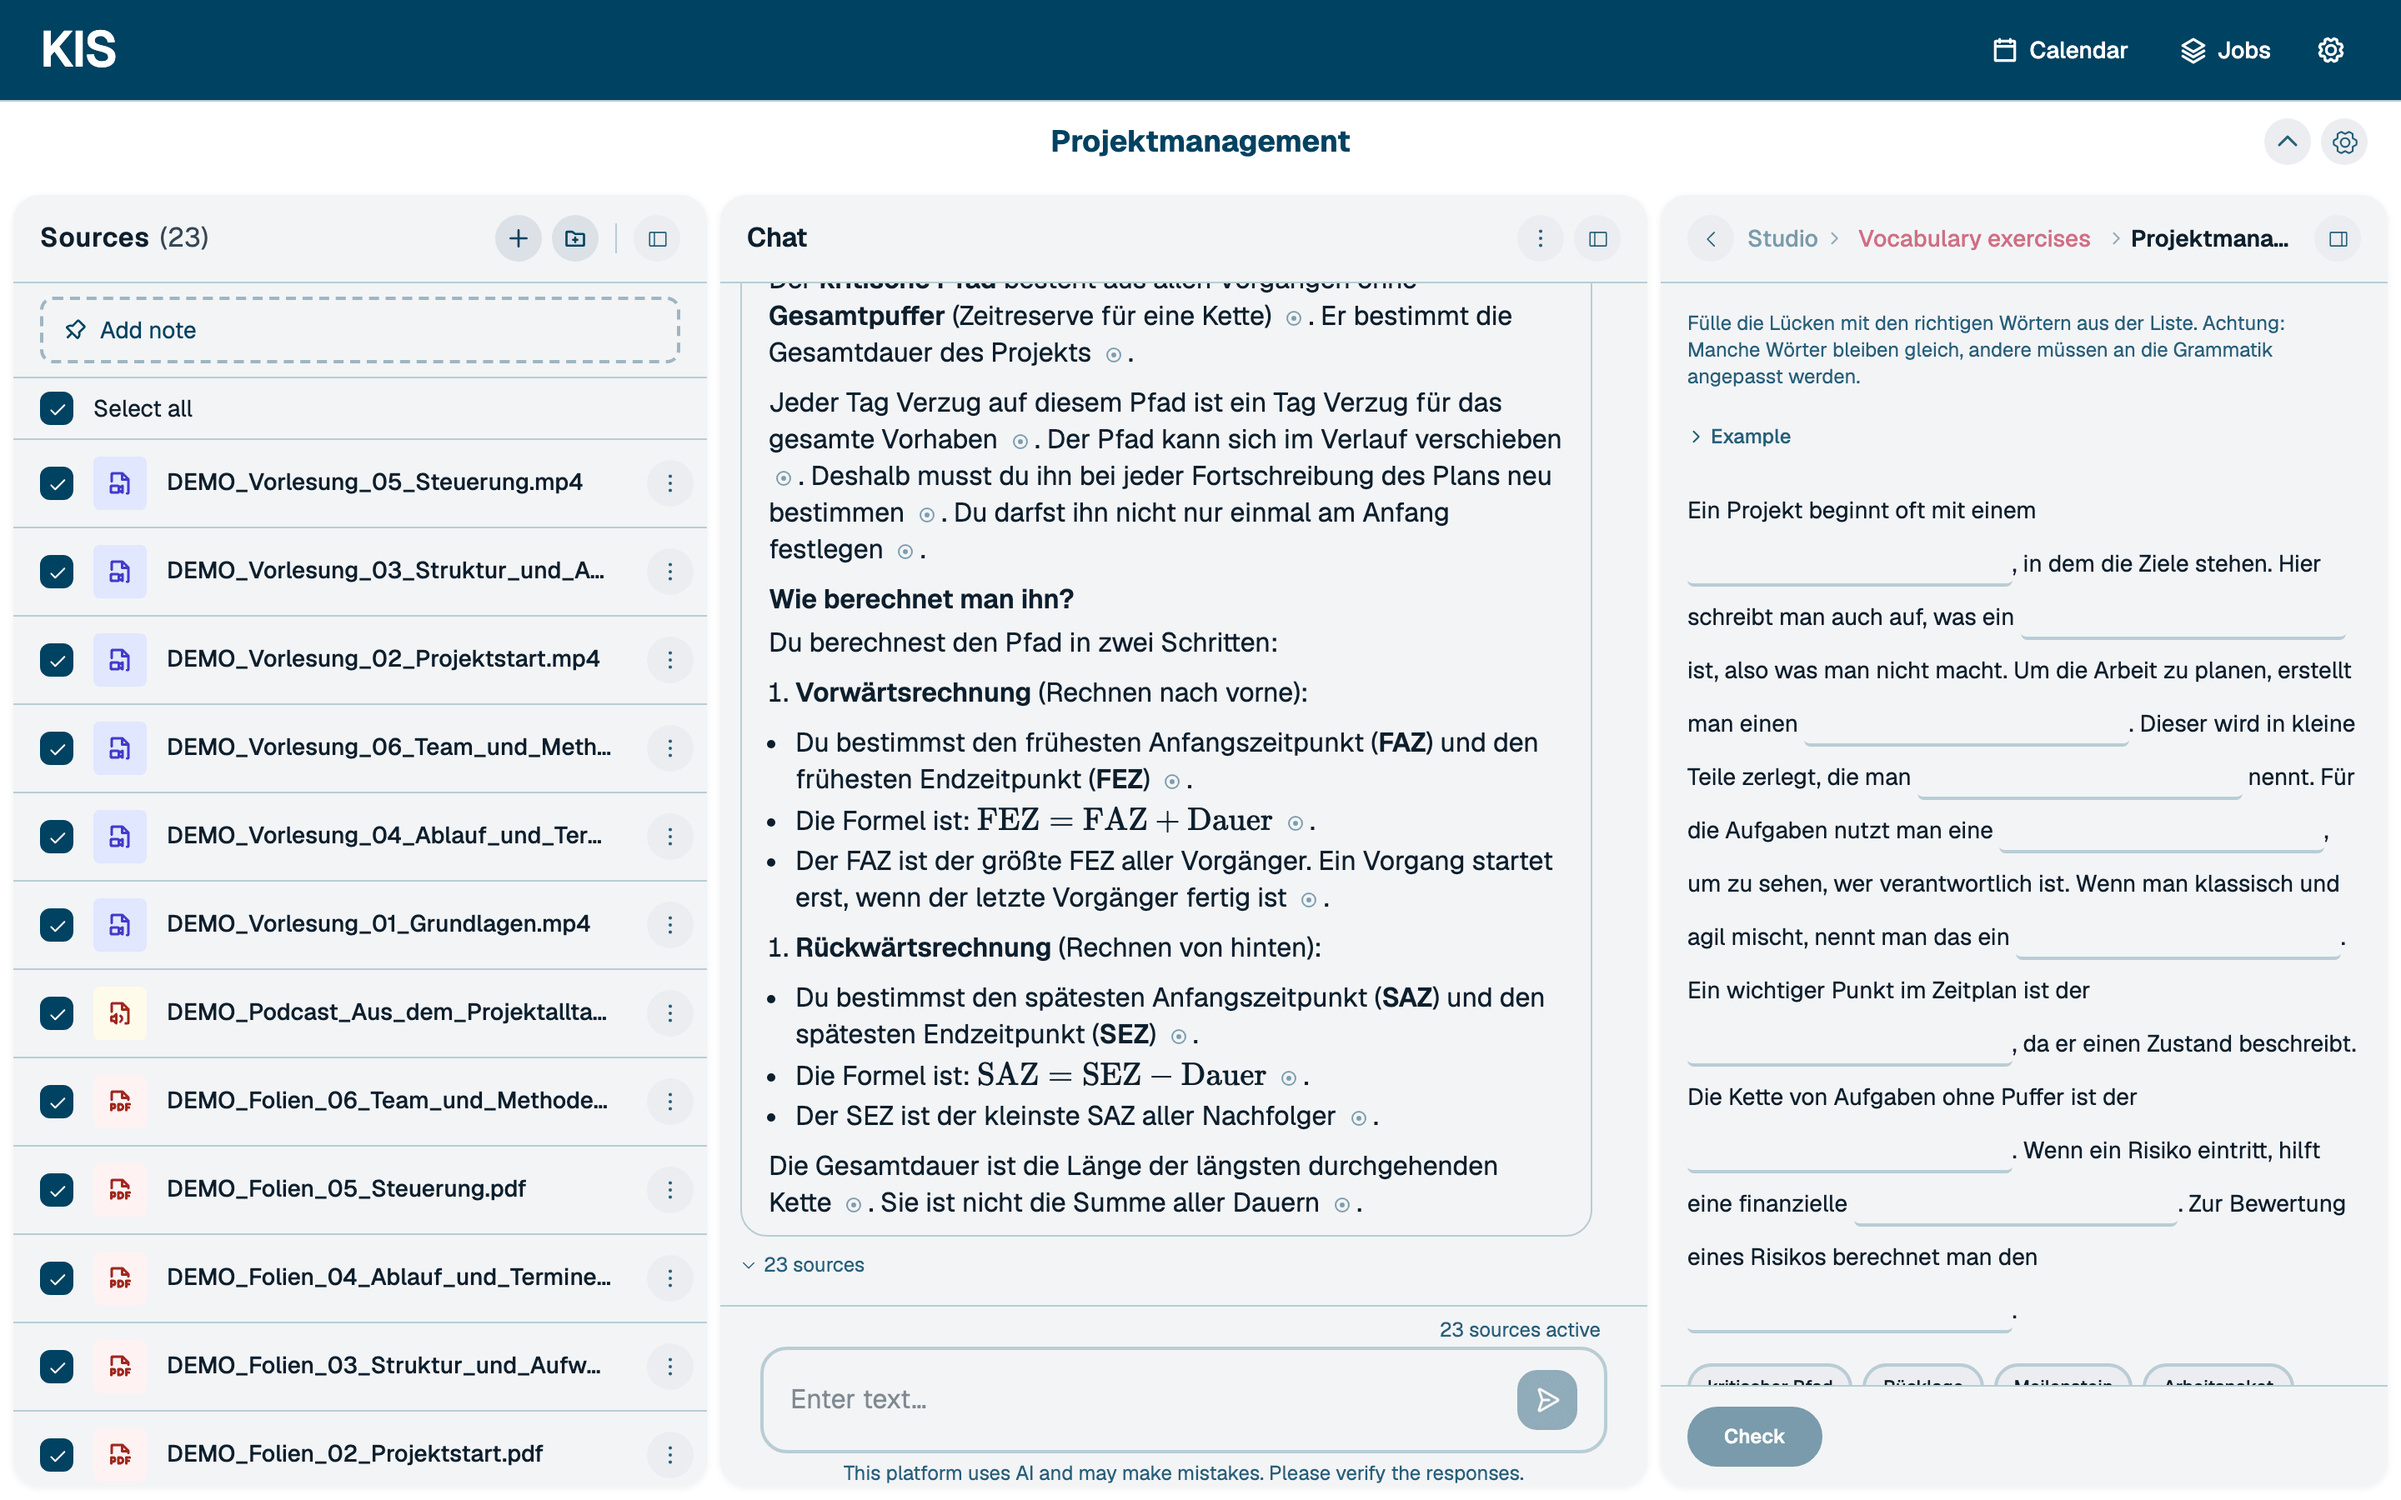
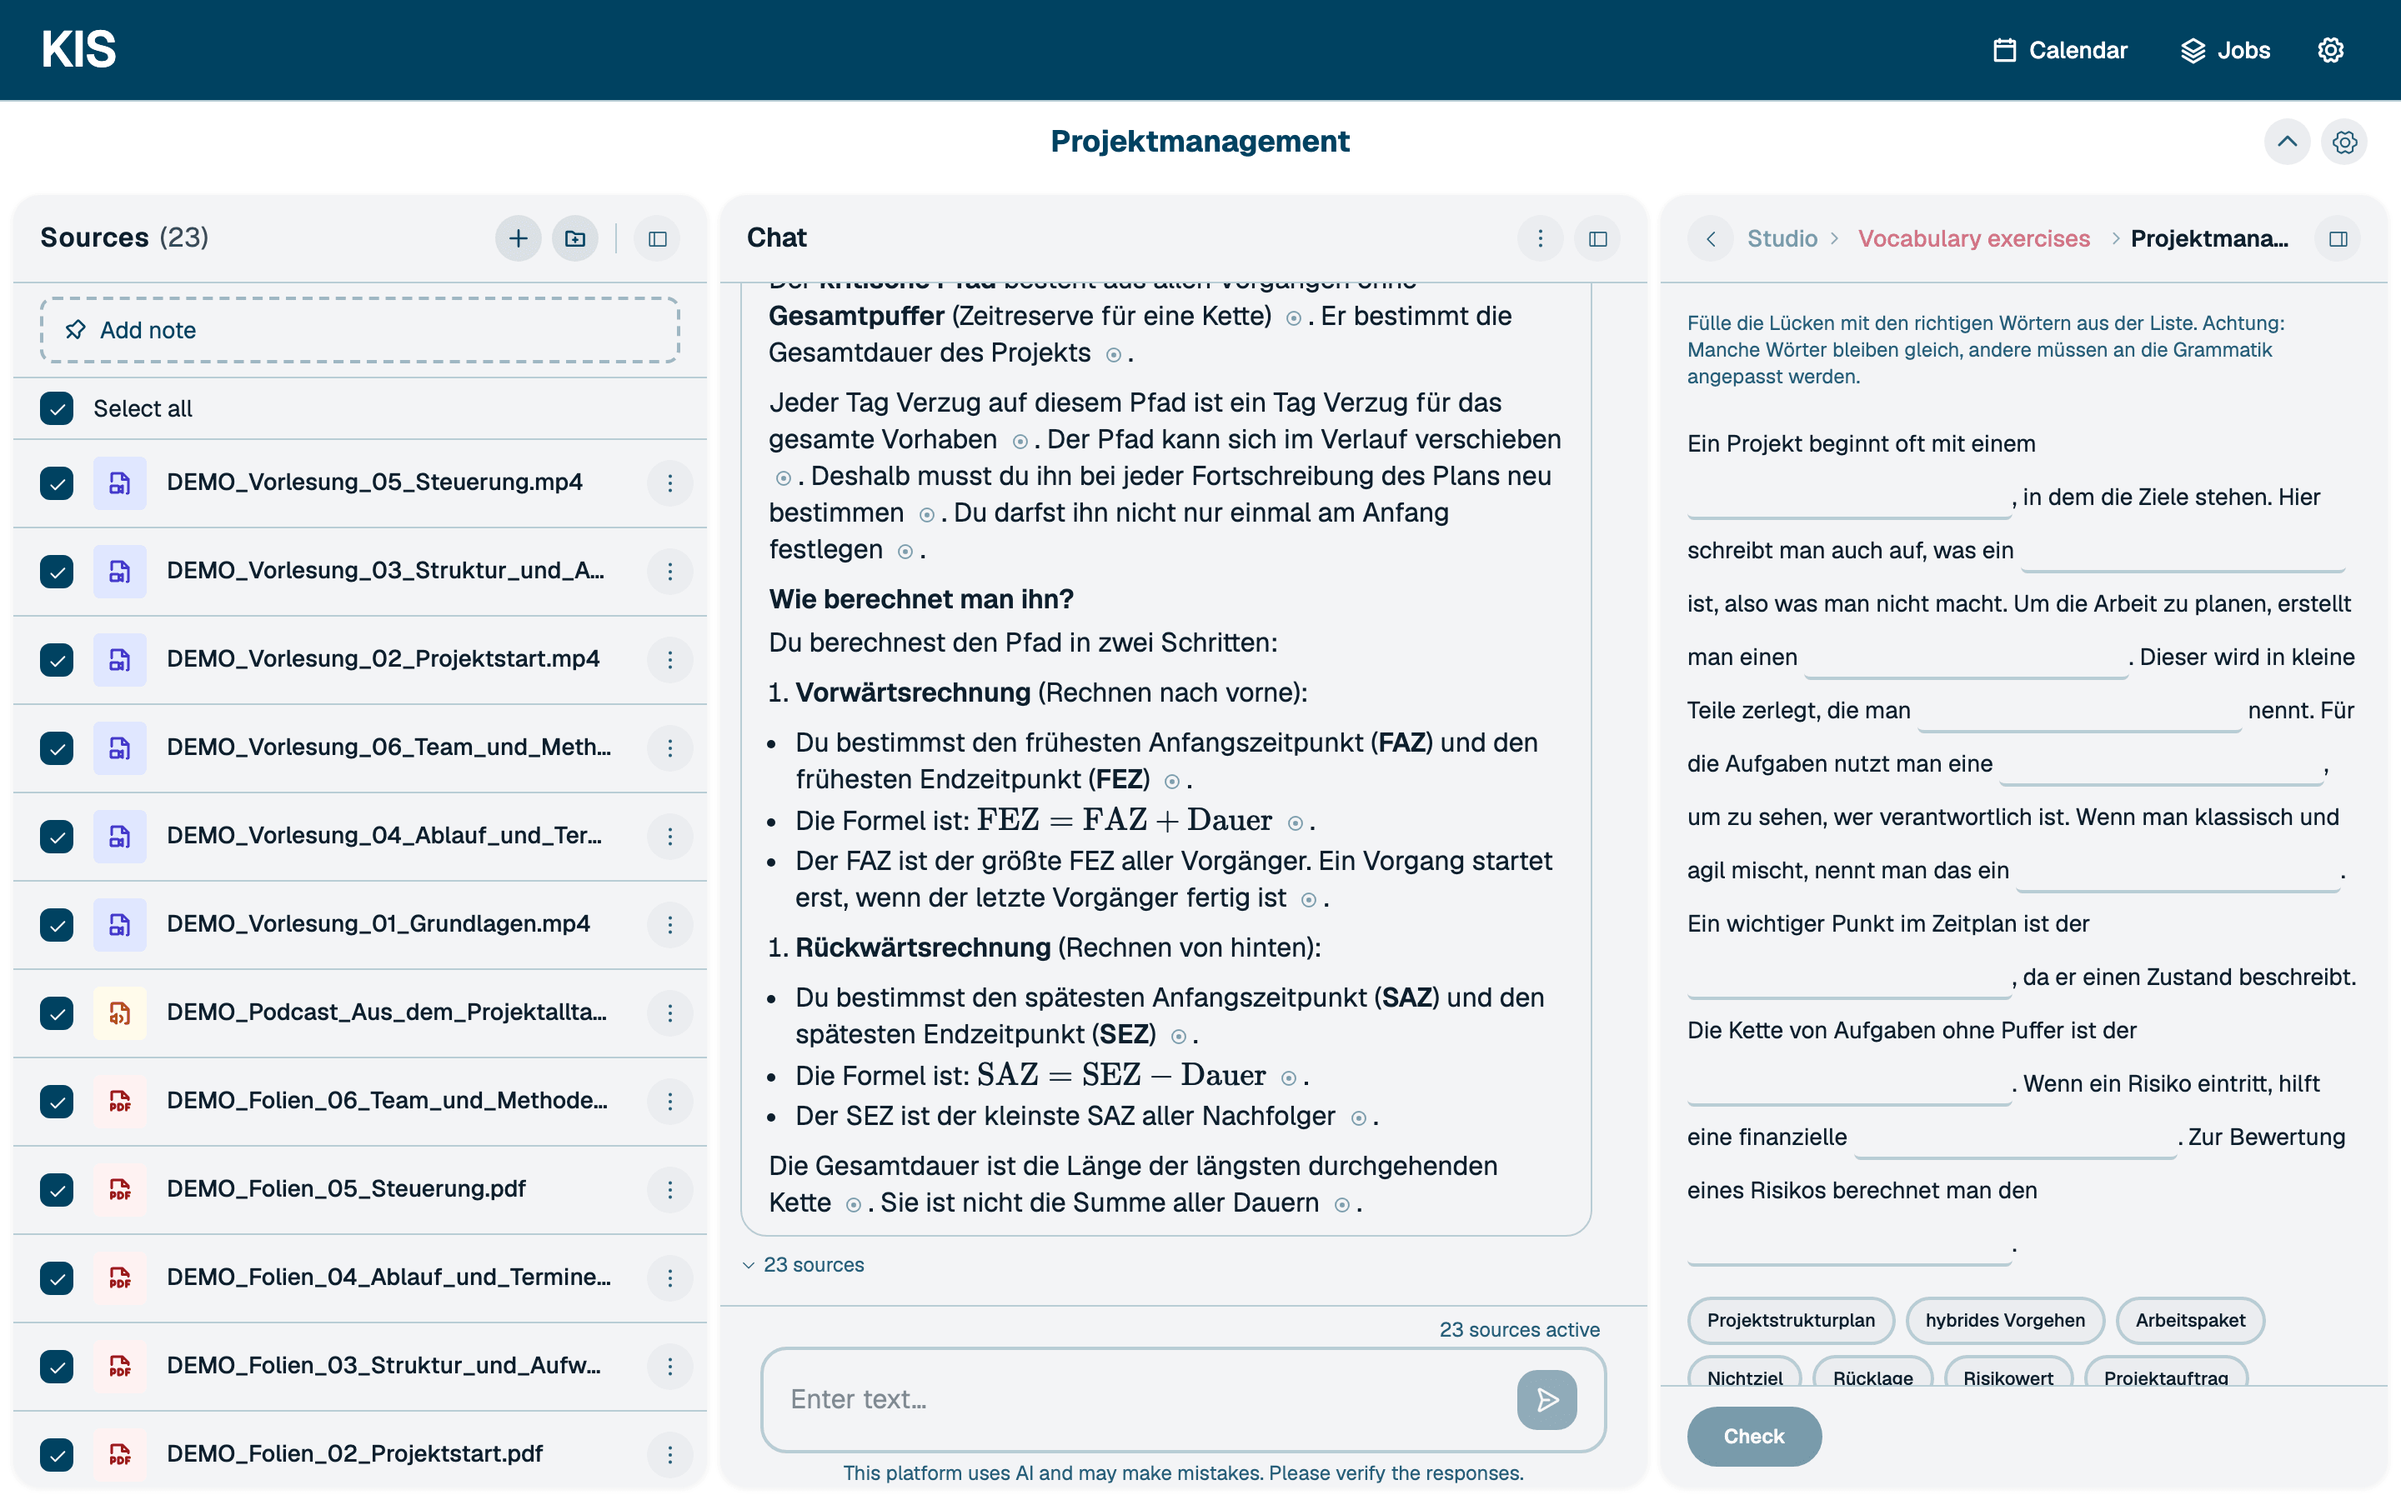
fix(sprachtrainer): Beispiel bei der Wortschatzübung entfernt
Handbuch-Bild dazu neu geschossen.

Changed region(s): [[0.6875, 0.28, 1.0, 0.9333]]

diff --git a/frontend/src/app/[locale]/workspace/[uuid]/_components/language_training/ClozeExerciseView.tsx b/frontend/src/app/[locale]/workspace/[uuid]/_components/language_training/ClozeExerciseView.tsx
@@ -1,5 +1,4 @@
 import React, { useMemo, useRef, useState } from "react";
-import { CaretRight } from "@phosphor-icons/react";
 import { useTranslations } from "next-intl";
 import type { ExerciseSet } from "../../_types";
 import { checkGap, type ClozeVerdict } from "./_cloze";
@@ -27,11 +26,10 @@ export function ClozeExerciseView({
 }) {
   const t = useTranslations("workspace.detail.languageTraining");
 
-  // One text is exactly one exercise, instruction and example hang off it.
+  // One text is exactly one exercise, instruction hangs off it.
   const item = exerciseSet.items?.[0] ?? null;
   const gaps = useMemo(() => item?.extras?.gaps ?? [], [item]);
   const instruction = item?.extras?.instruction ?? "";
-  const example = item?.extras?.example ?? null;
 
   // The text split into pieces and gaps.
   const parts = useMemo(() => {
@@ -66,8 +64,6 @@ export function ClozeExerciseView({
 
   const [drafts, setDrafts] = useState<Record<number, string>>({});
   const [struck, setStruck] = useState<Record<number, boolean>>({});
-  // Collapsed, the example is help on demand.
-  const [showExample, setShowExample] = useState(false);
   const [verdicts, setVerdicts] = useState<ClozeVerdict[] | null>(null);
   // Whether it was checked really locks every field.
   const checked = verdicts !== null;
@@ -105,32 +101,6 @@ export function ClozeExerciseView({
         {instruction && (
           <p className="text-xs" style={{ color: "var(--muted)" }}>{instruction}</p>
         )}
-        {example?.gapped && example?.solved && (
-          <div>
-            <button type="button" onClick={() => setShowExample((v) => !v)}
-              aria-expanded={showExample}
-              className="inline-flex items-center gap-1 text-xs font-medium transition-colors hover:text-kb"
-              style={{ color: "var(--muted)" }}>
-              <CaretRight size={10} weight="bold"
-                className={`transition-transform ${showExample ? "rotate-90" : ""}`} />
-              {t("cloze.example")}
-            </button>
-            {showExample && (
-              <div className="mt-1.5 rounded-xl px-3 py-2" style={{ backgroundColor: "var(--surface-dim)" }}>
-                {/* Gleiche Groesse wie der Lueckentext selbst: alles, was der Lernende
-                    LIEST, liest sich auf einer Stufe. Klein bleiben nur die Bedienteile. */}
-                <p className="text-sm leading-relaxed" style={{ color: "var(--foreground-soft)" }}>{example.gapped}</p>
-                {/* Der Pfeil traegt die Richtung ohne Wort und braucht keine
-                    Uebersetzung. Fuer einen Screenreader nur Zierde. */}
-                <p className="text-sm leading-relaxed flex gap-1.5" style={{ color: "var(--foreground-soft)" }}>
-                  <span aria-hidden="true" className="shrink-0" style={{ color: "var(--kb)" }}>→</span>
-                  <span>{example.solved}</span>
-                </p>
-              </div>
-            )}
-          </div>
-        )}
-
         {/* Der Fliesstext ist modell-verfasst und wird als reine React-Textknoten
             gerendert, nie ueber dangerouslySetInnerHTML: das Modell schreibt hier
             frei formulierten Text und keine vertrauenswuerdige Auszeichnung. */}
